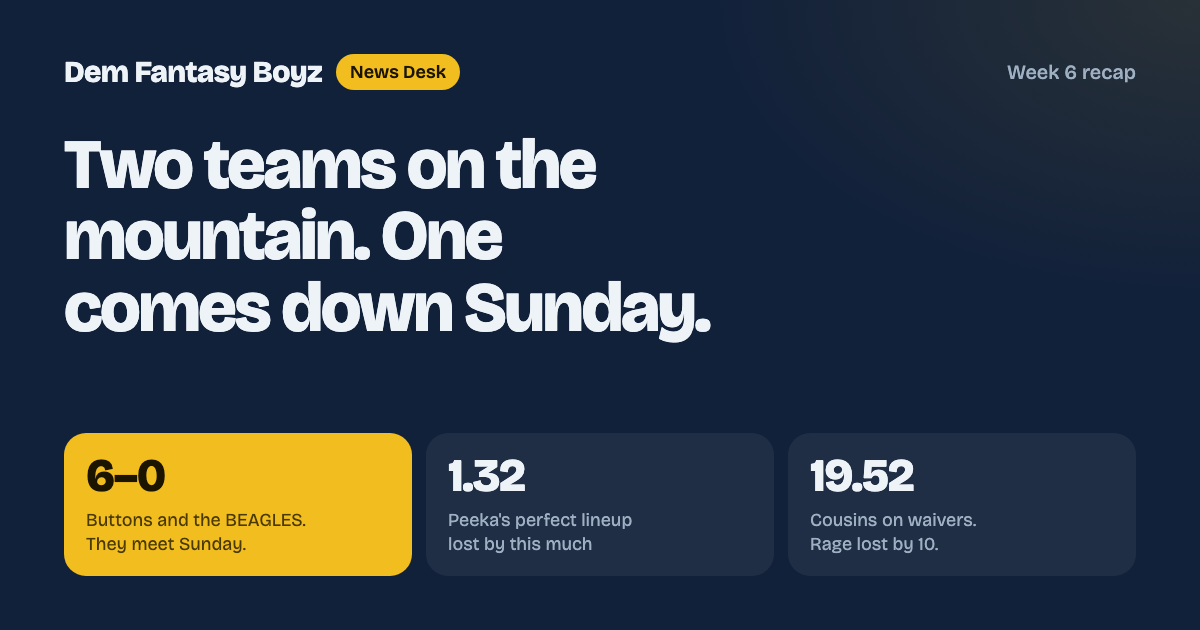
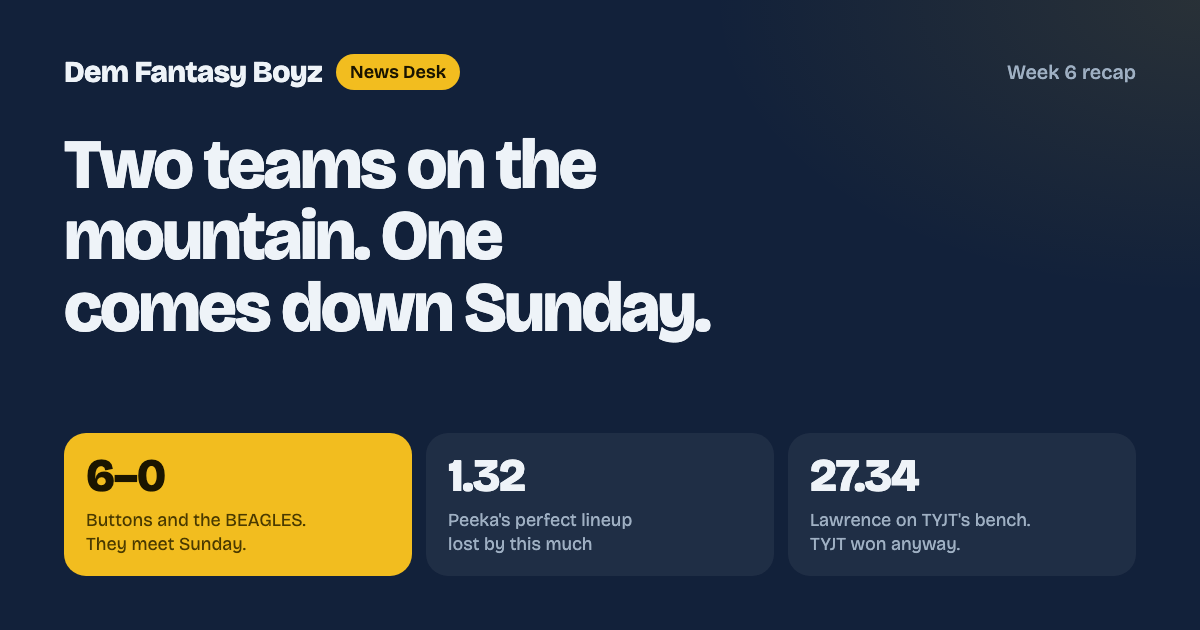
News desk: Week 6 recap, drop the Rage/Cousins angle

Changed region(s): [[0.6783, 0.8143, 0.8633, 0.8746], [0.6783, 0.7238, 0.7708, 0.7841]]

diff --git a/dfb/wk6-review.html b/dfb/wk6-review.html
@@ -5,16 +5,16 @@
 <meta name="viewport" content="width=device-width, initial-scale=1">
 <meta name="robots" content="noindex">
 <title>Two Teams on the Mountain. One Comes Down Sunday. &mdash; Dem Fantasy Boyz</title>
-<meta name="description" content="Week 6 recap: Buttons and the BEAGLES both go to 6-0 and play each other next. Peeka sets a perfect lineup and loses by 1.32. Rage leaves the winning quarterback on waivers.">
+<meta name="description" content="Week 6 recap: Buttons and the BEAGLES both go to 6-0 and play each other next. Peeka sets a perfect lineup and loses by 1.32. JBV and Rage are still looking for a win.">
 <meta property="og:type" content="article">
 <meta property="og:title" content="Two Teams on the Mountain. One Comes Down Sunday.">
-<meta property="og:description" content="Week 6 recap: Buttons and the BEAGLES both go to 6-0 and play each other next. Peeka sets a perfect lineup and loses by 1.32. Rage leaves the winning quarterback on waivers.">
+<meta property="og:description" content="Week 6 recap: Buttons and the BEAGLES both go to 6-0 and play each other next. Peeka sets a perfect lineup and loses by 1.32. JBV and Rage are still looking for a win.">
 <meta property="og:url" content="https://goonscrubbih.github.io/dfb/wk6-review.html">
-<meta property="og:image" content="https://goonscrubbih.github.io/dfb/img/wk6-review.png?v=1">
+<meta property="og:image" content="https://goonscrubbih.github.io/dfb/img/wk6-review.png?v=2">
 <meta name="twitter:card" content="summary_large_image">
 <meta name="twitter:title" content="Two Teams on the Mountain. One Comes Down Sunday.">
-<meta name="twitter:description" content="Week 6 recap: Buttons and the BEAGLES both go to 6-0 and play each other next. Peeka sets a perfect lineup and loses by 1.32. Rage leaves the winning quarterback on waivers.">
-<meta name="twitter:image" content="https://goonscrubbih.github.io/dfb/img/wk6-review.png?v=1">
+<meta name="twitter:description" content="Week 6 recap: Buttons and the BEAGLES both go to 6-0 and play each other next. Peeka sets a perfect lineup and loses by 1.32. JBV and Rage are still looking for a win.">
+<meta name="twitter:image" content="https://goonscrubbih.github.io/dfb/img/wk6-review.png?v=2">
 <meta name="theme-color" content="#EDF1F5" media="(prefers-color-scheme: light)">
 <meta name="theme-color" content="#0E1622" media="(prefers-color-scheme: dark)">
 <link rel="preconnect" href="https://fonts.googleapis.com">
@@ -34,7 +34,7 @@
 <div class="hed">
   <span class="chip flag">Week 6 recap</span>
   <h1>Two Teams on the Mountain. One Comes Down Sunday.</h1>
-  <p class="dek">Buttons and the BEAGLES are both 6&ndash;0, and Week 7 puts them in the same game. Peeka set a perfect lineup and lost by 1.32. Rage lost by 10 and left <em>19.52 points on the waiver wire</em>.</p>
+  <p class="dek">Buttons and the BEAGLES are both 6&ndash;0, and Week 7 puts them in the same game. Peeka set a perfect lineup and lost by 1.32. JBV and Rage are <em>still looking for a win</em>.</p>
   <div class="by"><b>Oct 21, 2026</b><span>Week 6 final</span><span>All games played</span></div>
 </div>
 
@@ -50,13 +50,13 @@
   <div class="g"><span class="res">Sex Panthers <span class="l">def.</span> JohnnyBoVonny</span><span class="mg">131.88&ndash;87.30</span>
     <span class="ln">Biggest margin of the week. JBV is 0&ndash;6.</span></div>
   <div class="g mj"><span class="res">TYJT <span class="l">def.</span> Rage</span><span class="mg">109.06&ndash;98.98</span>
-    <span class="ln">Rage started Jameis Winston. Kirk Cousins sat on waivers and scored 19.52.</span></div>
+    <span class="ln">Lawrence scored 27.34 on the TYJT bench. TYJT won anyway.</span></div>
 </div>
 
 <div class="stats">
   <div class="stat flag"><b>6&ndash;0</b><span>Buttons and the BEAGLES. They play each other Sunday.</span></div>
   <div class="stat"><b>1.32</b><span>Peeka's margin of defeat, with zero points on the bench</span></div>
-  <div class="stat"><b>19.52</b><span>Cousins, unclaimed. Rage lost by 10.08.</span></div>
+  <div class="stat"><b>27.34</b><span>Trevor Lawrence, on TYJT's bench. TYJT won anyway.</span></div>
   <div class="stat"><b>1 of 6</b><span>Losers whose best lineup would have won</span></div>
 </div>
 
@@ -77,11 +77,9 @@
   <cite>Zeus, Monday night. Two goat reactions.</cite>
 </div>
 
-<h2>Rage, and the quarterback on waivers</h2>
+<h2>TYJT wins with the wrong quarterback</h2>
 
-<p>On Saturday the desk told Goon to pick up Kirk Cousins, projected 17.7, and drop Jameis Winston. Rage started Winston. <strong>Winston scored 6.48. Cousins scored 19.52 for nobody.</strong> Rage lost to TYJT by 10.08. With Cousins, Rage wins by about three. Bo Nix had already scored 4.48 on the bench on Thursday.</p>
-
-<p>Four days later, Zeus picked up Cousins. Rage is 0&ndash;6 and 17&ndash;49 against the league. Goon spent the week teasing championship rings and a "prototype trophy" in the chat. Next up: the Taylords.</p>
+<p>Rage scored 98.98 and lost to TYJT by 10.08. Its best possible lineup was 101.38, so there was no win hiding on the bench. Bo Nix scored 4.48 on Thursday night. Rage is 0&ndash;6 and 17&ndash;49 against the league. Goon spent the week teasing championship rings and a "prototype trophy" in the chat. Next up: the Taylords.</p>
 
 <p>TYJT won without trying very hard. traffikhan started Brock Purdy, who scored 17.36. Trevor Lawrence scored 27.34 on his bench. He is 5&ndash;1 and first in points anyway, and his Rays are going to the World Series. "Rays going to the World Series boys!" So, loudly, was Zeus, the man traffikhan once caught being "not a Tampa fan": "YANDY!!!!!!!!"</p>
 
@@ -151,7 +149,7 @@
 
 <div class="method">
   <h2>How this was put together</h2>
-  <p>Scores, lineups and every rostered player's points come from Sleeper, pulled Oct 21 after Week 6 closed. "Best possible lineup" fills each slot with the highest scorer on the roster, using hindsight on purpose. Kirk Cousins's 19.52 is his Week 6 score in this league's scoring; he was unrostered all week. The desk's Saturday advice to Rage is on file in the desk's notes. Defense points use this league's scoring settings.</p>
+  <p>Scores, lineups and every rostered player's points come from Sleeper, pulled Oct 21 after Week 6 closed. "Best possible lineup" fills each slot with the highest scorer on the roster, using hindsight on purpose. Defense points use this league's scoring settings.</p>
   <p>Chat quotes are from the league chat, lightly trimmed; a real name inside a quote is replaced with the manager's nickname in brackets. Transactions are from the league's own log. This league uses rolling waivers, not FAAB, so there are no bids to report.</p>
 </div>
 <!-- ============ CONTENT ENDS ============ -->

diff --git a/dfb/index.html b/dfb/index.html
@@ -10,7 +10,7 @@
 <meta property="og:title" content="Dem Fantasy Boyz — News Desk">
 <meta property="og:description" content="Weekly recaps, the Matchup of the Week, and live scores for the Dem Fantasy Boyz league.">
 <meta property="og:url" content="https://goonscrubbih.github.io/dfb/">
-<meta property="og:image" content="https://goonscrubbih.github.io/dfb/img/wk6-review.png?v=1">
+<meta property="og:image" content="https://goonscrubbih.github.io/dfb/img/wk6-review.png?v=2">
 <meta name="theme-color" content="#EDF1F5" media="(prefers-color-scheme: light)">
 <meta name="theme-color" content="#0E1622" media="(prefers-color-scheme: dark)">
 <link rel="preconnect" href="https://fonts.googleapis.com">
@@ -173,11 +173,11 @@ a.row:hover{transform:translateX(3px)}
 <!-- ============ LEAD STORY ============ -->
 <section class="rise" aria-label="Latest story">
   <a class="lead" href="wk6-review.html">
-    <div class="art"><img src="img/wk6-review.png?v=1" alt="" loading="eager" width="1200" height="630"></div>
+    <div class="art"><img src="img/wk6-review.png?v=2" alt="" loading="eager" width="1200" height="630"></div>
     <div class="cap">
       <span class="chip flag">Week 6 recap</span>
       <h3>Two Teams on the Mountain. One Comes Down Sunday.</h3>
-      <p>Buttons and the BEAGLES both go to 6&ndash;0 and play each other next. Peeka sets a perfect lineup and loses by 1.32. Rage leaves the winning quarterback on waivers.</p>
+      <p>Buttons and the BEAGLES both go to 6&ndash;0 and play each other next. Peeka sets a perfect lineup and loses by 1.32. JBV and Rage are still looking for a win.</p>
       <span class="go">Read the recap <i>&rarr;</i></span>
       <span class="date">Oct 21 &middot; Week 6 final</span>
     </div>
